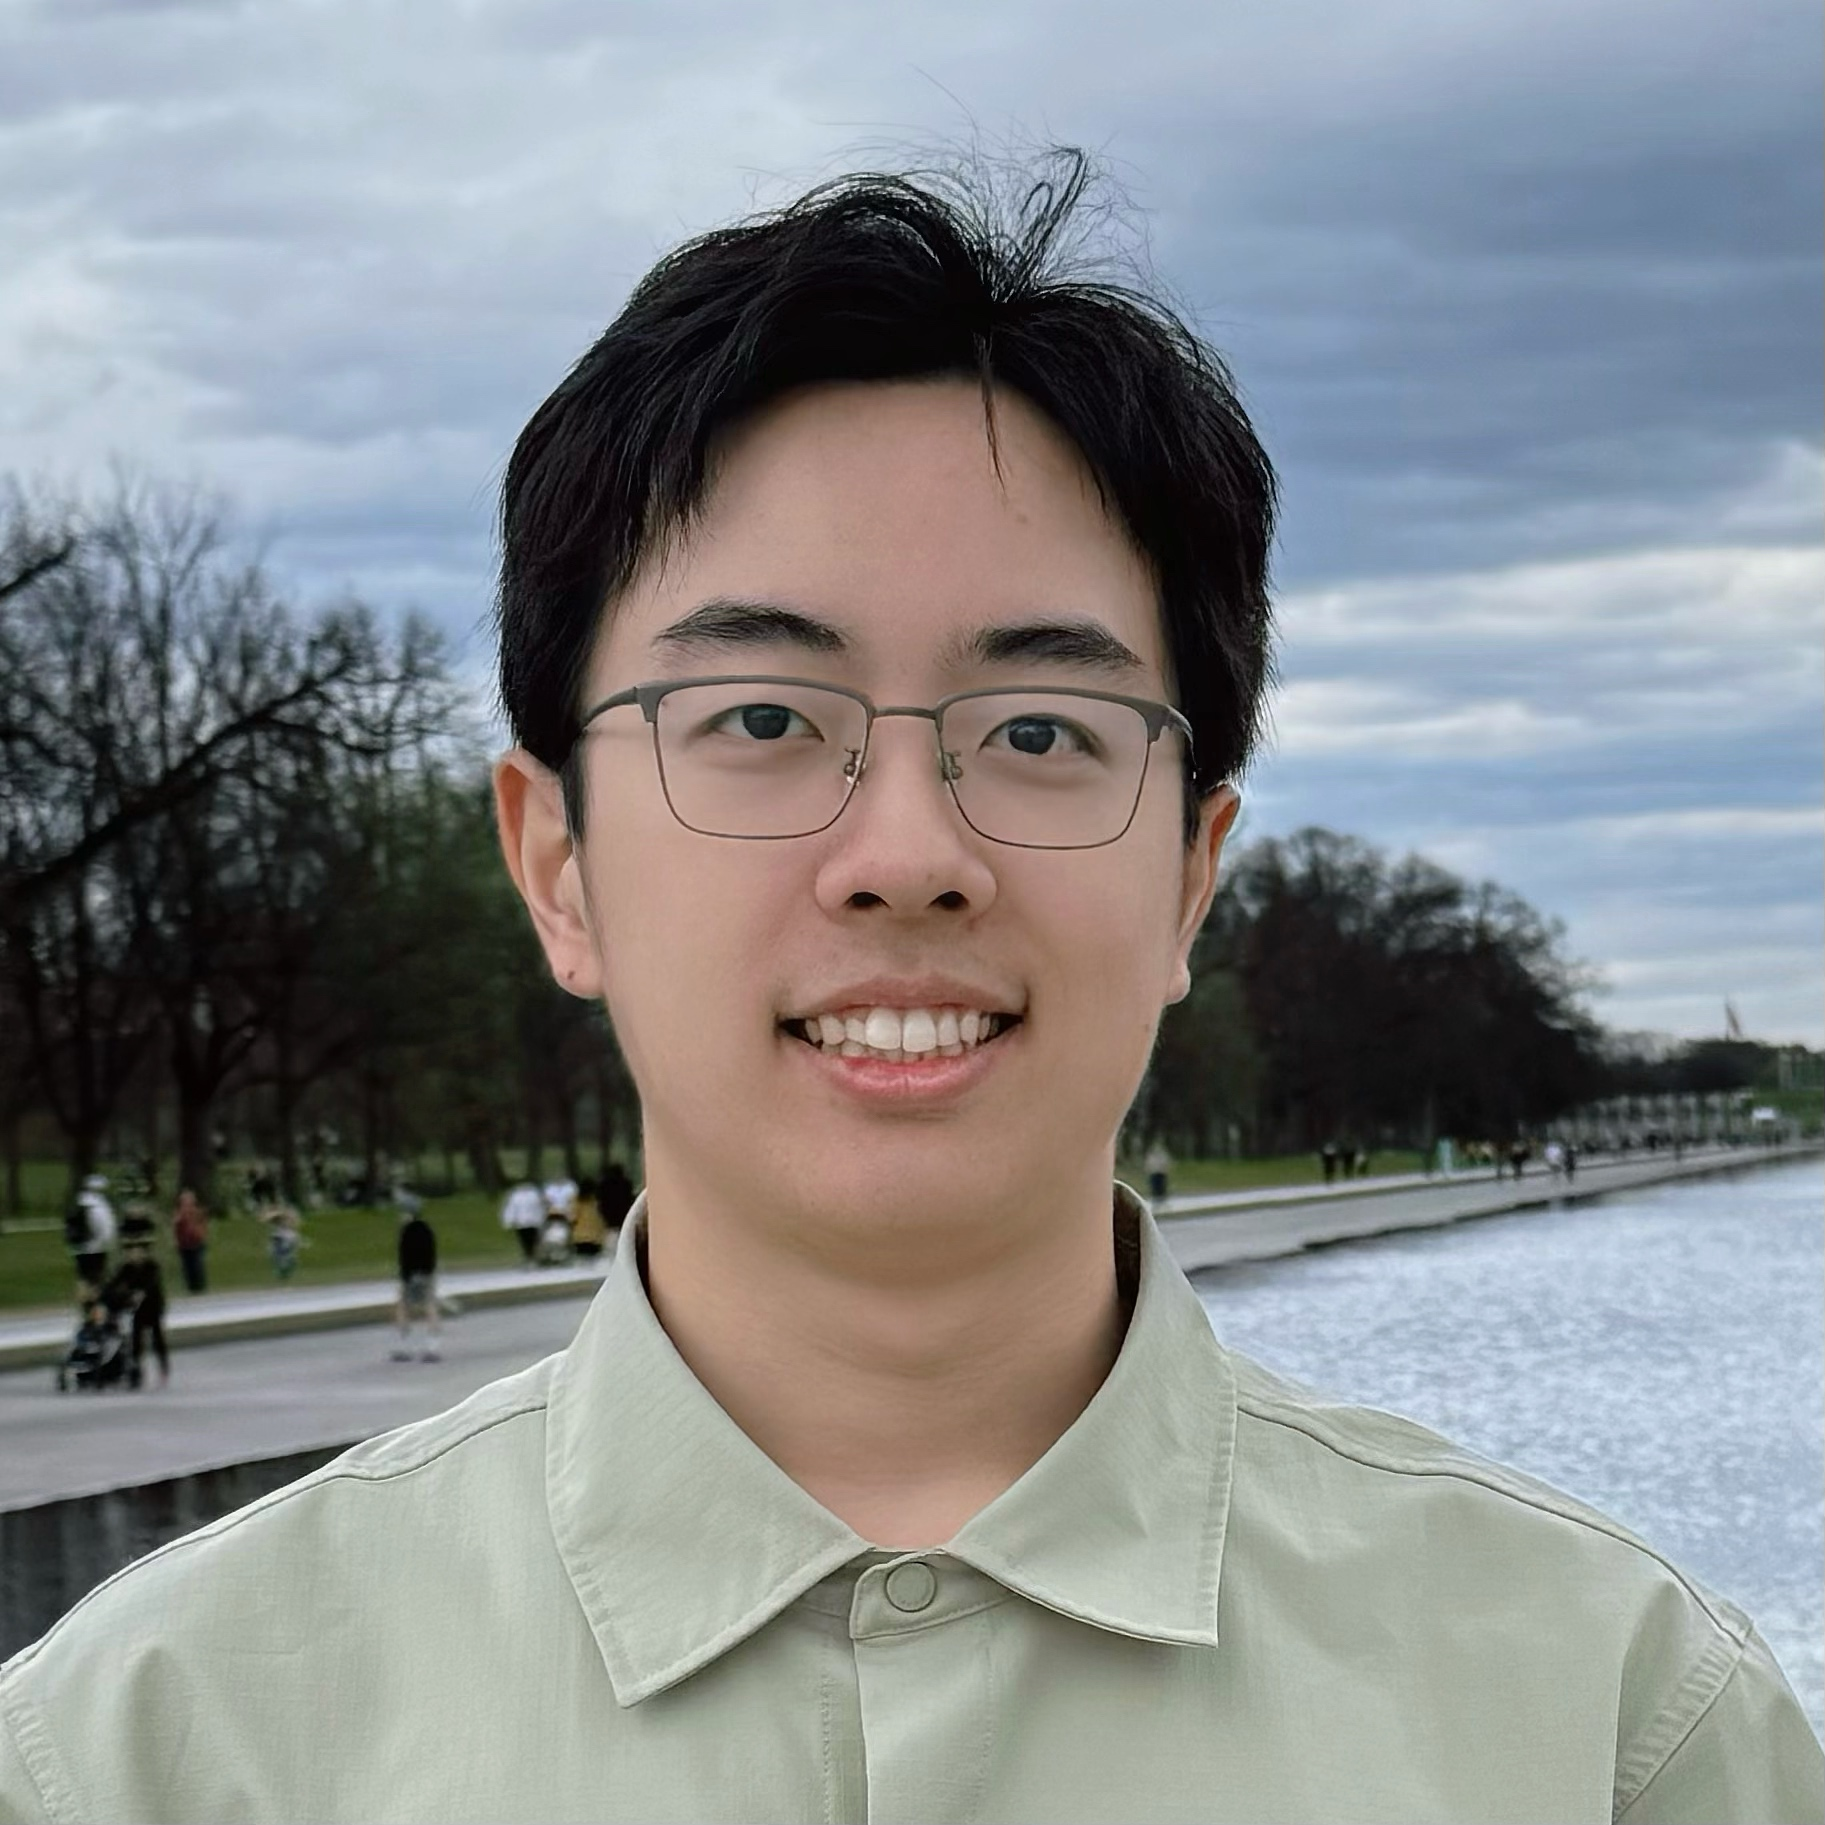
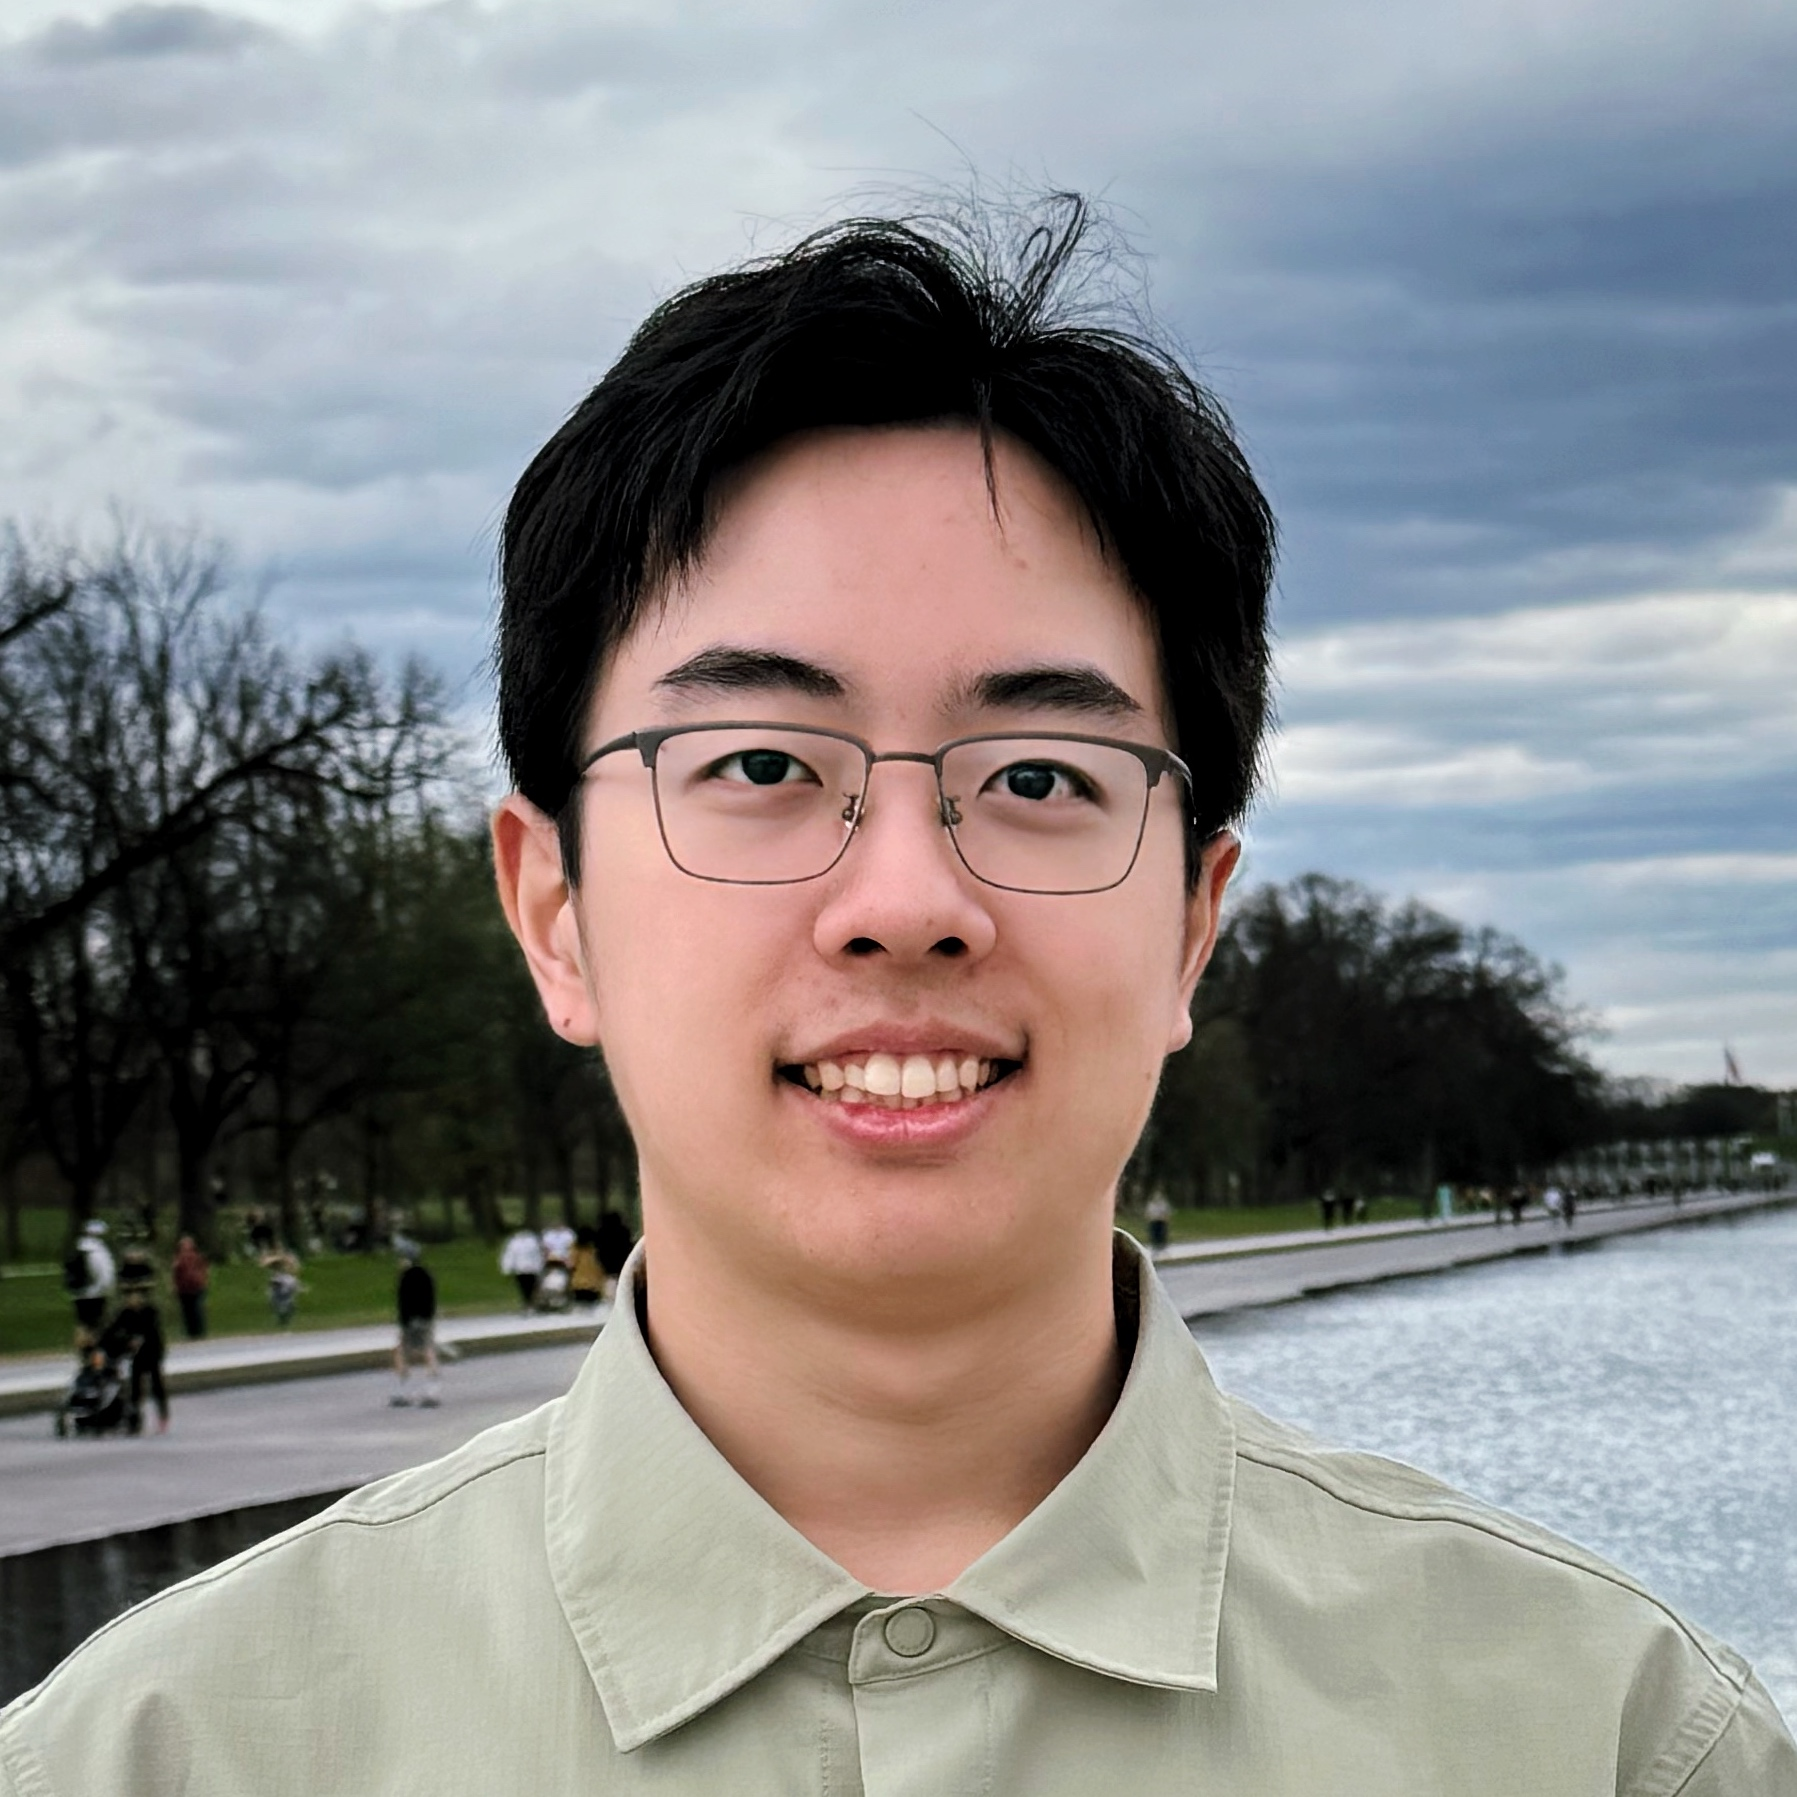
update profile

diff --git a/index.html b/index.html
@@ -29,14 +29,14 @@
                   <p>
                     I am a Ph.D. student in computer science at Columbia University, advised by <a href="https://yunzhuli.github.io/">Prof. Yunzhu Li</a>.
                   </p>
-                  <p>  
-                    Previously, I was an undergraduate student at Tsinghua University majoring in computer science (Yao class).
-                  </p>
-                  <!-- <p>
-                    My research interest is in computer vision, machine learning and robotics.
-                    During my undergrad, I am very fortunate to have worked with <a href="https://xiaolonw.github.io/">Prof. Xiaolong Wang</a> from UC San Diego, 
+                  
+                  <p>
+                    My research interest is at the intersection of robotics, machine learning and computer vision. 
+                    I am interested in using learning-based methods to make robots perceive and understand the physical world robustly and generalizably.
+                  <p> 
+                    I am very fortunate to have worked with <a href="https://xiaolonw.github.io/">Prof. Xiaolong Wang</a> from UC San Diego, 
                     and <a href="https://yang-gao.weebly.com/">Prof. Yang Gao</a> from Tsinghua University.
-                  </p> -->
+                  </p>
                   <p style="text-align:center">
                     <a href="mailto:kaifeng.z@columbia.edu">Email</a> &nbsp/&nbsp
                     <!--<a href="files/resume.pdf">CV</a> &nbsp/&nbsp-->
@@ -46,8 +46,8 @@
                     <a href="https://www.linkedin.com/in/kaifeng-zhang-7b971625b/">Linkedin</a>-->
                   </p>
                 </td>
-                <td style="padding:2.5%;width:25%;max-width:25%">
-                  <img style="width:100%;max-width:100%;border-radius:50%" alt="profile photo" src="images/profile.jpg" class="hoverZoomLink"></a>
+                <td style="padding:0%;width:25%;max-width:25%">
+                  <img style="width:100%;max-width:100%;border-radius:50%" alt="profile photo" src="images/profile2.jpg" class="hoverZoomLink"></a>
                 </td>
               </tr>
             </tbody>
@@ -191,80 +191,28 @@
               </tr>
             </tbody>
           </table>
-<!--
-          <table style="width:100%;border:0px;border-spacing:0px;border-collapse:separate;margin-right:auto;margin-left:auto;">
+
+          <!-- <table style="width:100%;border:0px;border-spacing:0px;border-collapse:separate;margin-right:auto;margin-left:auto;">
             <tbody>
               <tr>
                 <td style="padding:20px;width:100%;vertical-align:middle">
-                  <heading>Misc</heading>
-                  <p>
-                      <li>
-                        Some of my interesting <a href="javascript:;" onclick="showProjects()">course projects</a>
-                      </li>
-                      <div class="projects" id="projects" style="display: none">
-                        <br>
-                        <table style="width:100%;border:0px;border-spacing:0px;border-collapse:separate;margin-right:auto;margin-left:auto;">
-                          <tbody>
-                            <tr>
-                              <td style="padding:10px;width:100%;vertical-align:middle">
-                                <em>AI+X project</em>
-                                <br>
-                                A Statistical Study of Integrated Livestock-Fish Production in Myanmar using Satellite Imagery
-                                <br>
-                                <a href="https://github.com/PKUCER/YONGONCHICKENFISH">GitHub</a>
-                                /
-                                <a href="files/AIX-report.pdf">pdf</a>
-                                /
-                                <a href="https://youtu.be/mofpT3WzhaU?">video (in Chinese)</a>
-                              </td>
-                            </tr>
-                        </table>
-                        <table style="width:100%;border:0px;border-spacing:0px;border-collapse:separate;margin-right:auto;margin-left:auto;">
-                          <tbody>
-                              <td style="padding:10px;width:100%;vertical-align:middle">
-                                <em>Fall 2021, Intelligent System and Robotics</em>
-                                <br>
-                                Quadruped Locomotion with Reinforcement Learning and Visual Signal
-                                <br>
-                                <a href="https://github.com/kywind/Robotics-Project">GitHub</a>
-                                /
-                                <a href="files/robotics-report.pdf">pdf</a>
-                              </td>
-                            </tr>
-                        </table>
-                        <table style="width:100%;border:0px;border-spacing:0px;border-collapse:separate;margin-right:auto;margin-left:auto;">
-                          <tbody>
-                            <tr>
-                              <td style="padding:10px;width:100%;vertical-align:middle">
-                                <em>Fall 2021, Advanced Computer Graphics</em>
-                                <br>
-                                Ray Tracing and Path Tracing
-                                <br>
-                                <a href="https://github.com/kywind/path-tracing">GitHub</a>
-                              </td>
-                            </tr>
-                        </table>
-                        <br>
-                      </div>
-                      <li>
-                        How to pronounce my name? Try this:  Kaifeng -> 'kai-fuhng'. Zhang -> 'jahng'.
-                      </li>
-                      <li>
-                        My WeChat ID is <strong>kywindz</strong>. You can drop me a friend request if you feel more comfortable to chat this way.
-                      </li>
-                  </p>
+                  <heading>Experiences</heading>
                 </td>
               </tr>
             </tbody>
-          </table>
--->
+          </table> -->
+
+          <!-- <p>
+            Previously, I was an undergraduate student at Tsinghua University majoring in computer science (Yao class).
+          </p> -->
+
           <table style="width:100%;border:0px;border-spacing:0px;border-collapse:separate;margin-right:auto;margin-left:auto;">
             <tbody>
               <tr>
                 <td style="padding: 0px">
                   <br>
                   <p style="text-align:right;font-size:small">
-                    Borrowed from <a href="https://jonbarron.info/">Jon Barron</a>
+                    Borrowed from <a href="https://jonbarron.info/" style="font-size:small">Jon Barron</a>
                   </p>
                 </td>
               </tr>

diff --git a/stylesheet.css b/stylesheet.css
@@ -64,7 +64,7 @@
   }
   
   a {
-    color: #1772d0;
+    color: #08338f;
     text-decoration: none;
   }
   
@@ -81,28 +81,33 @@
   p,
   a {
     font-family: 'Lato', Verdana, Helvetica, sans-serif;
-    font-size: 14px
+    font-size: 18px;
+    line-height: 1.3;
   }
   
   strong {
     font-family: 'Lato', Verdana, Helvetica, sans-serif;
-    font-size: 14px;
+    font-size: 18px;
+    line-height: 1.3;
   }
   
   heading {
     font-family: 'Lato', Verdana, Helvetica, sans-serif;
-    font-size: 22px;
+    font-size: 26px;
+    line-height: 1.0;
   }
   
   papertitle {
     font-family: 'Lato', Verdana, Helvetica, sans-serif;
-    font-size: 14px;
-    font-weight: 700
+    font-size: 18px;
+    font-weight: 700;
+    line-height: 1.3;
   }
   
   name {
     font-family: 'Lato', Verdana, Helvetica, sans-serif;
-    font-size: 32px;
+    font-size: 36px;
+    line-height: 1.3;
   }
   
   .one {
